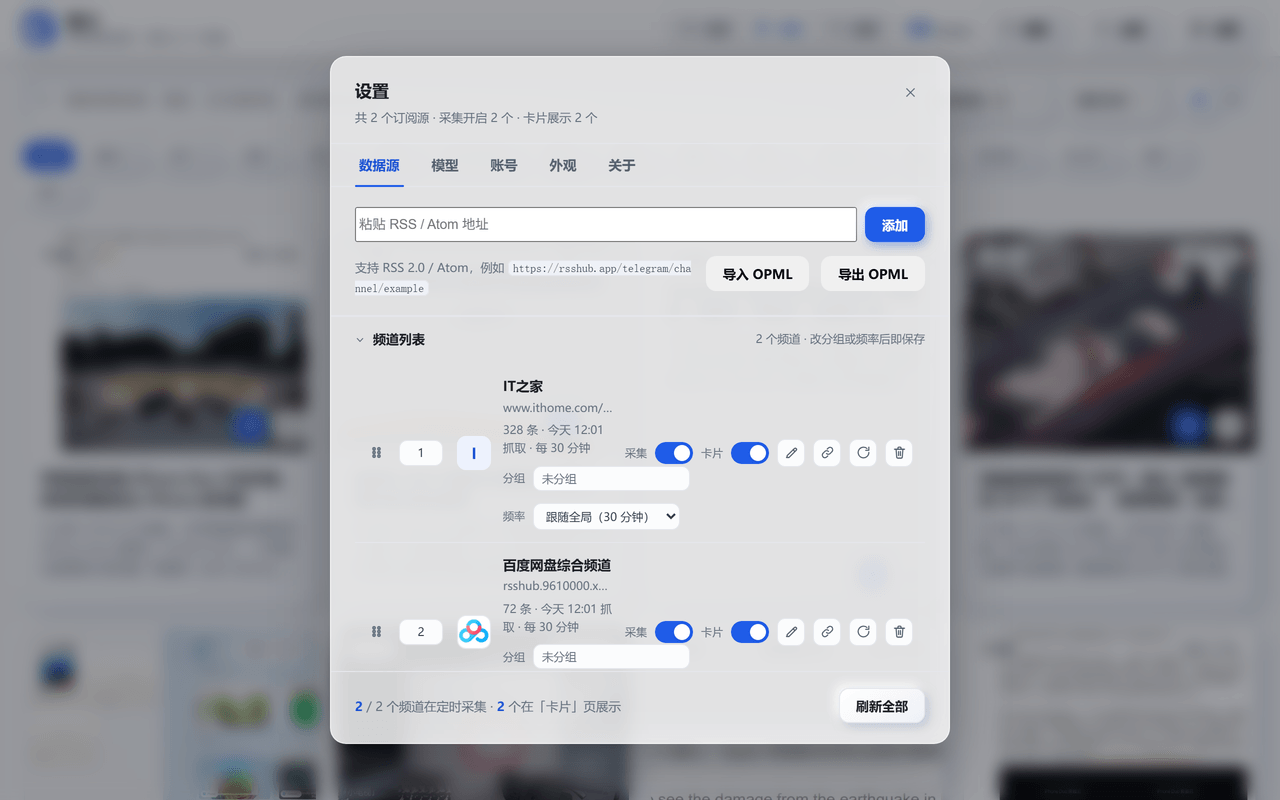
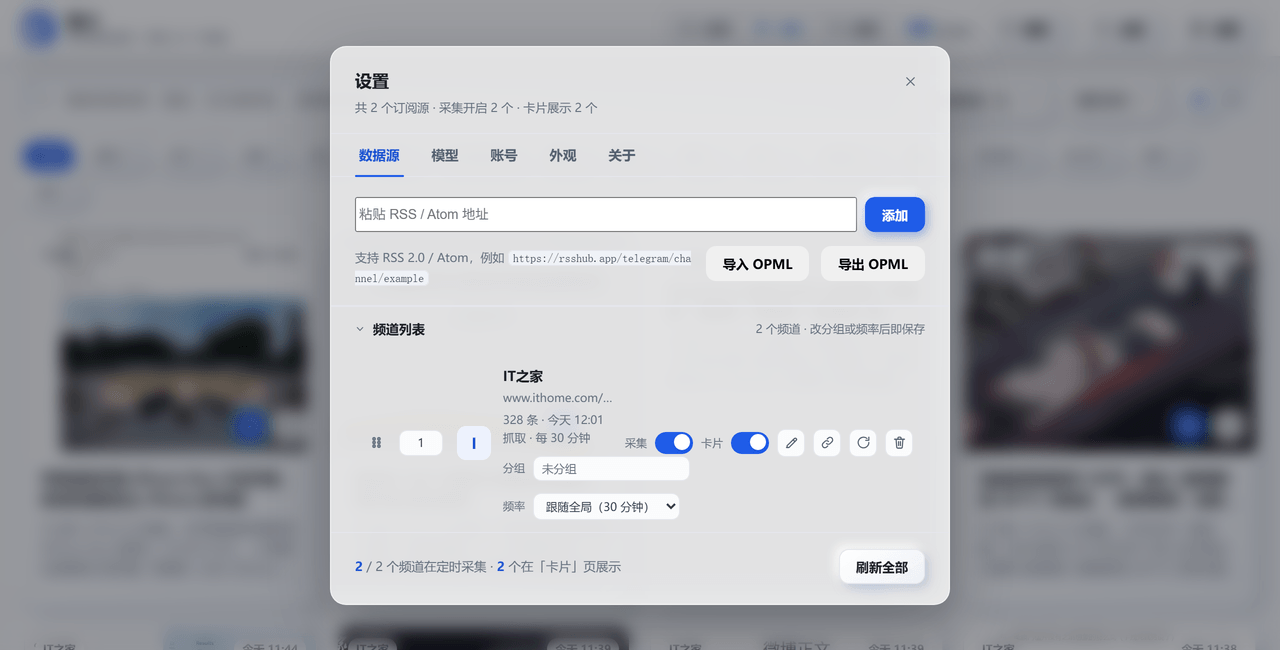
docs: 演示站换成 feedlore.669600.xyz，宣传稿改写成面向普通用户的口径
旧域名的痕迹除文案外还留在 05-settings.png 里（演示库某频道的订阅地址），
重拍时把视口高度当裁剪杠杆，只留第一条频道，主题用真按钮切到浅色再还原。

diff --git a/docs/论坛发布稿.md b/docs/论坛发布稿.md
@@ -1,94 +1,87 @@
 <!-- 发布前自检：① 确认 docs/screenshots 里的图已推到 main 分支，外链才会生效；
      ② 论坛若屏蔽 raw.githubusercontent.com，把前缀换成 https://github.com/chensnails/FeedLore/raw/main/ 再试；
-     ③ 本文件是给论坛直接粘贴用的，README 是仓库门面，两处的功能描述允许有详略差，但别写反。 -->
+     ③ 本文件面向普通用户，讲「能用来干什么、怎么上手」；技术实现细节留在 README，两边别写反。 -->
 
-# 笺川 FeedLore：一个把「订阅 → 阅读 → 沉淀」收在一处的自托管 RSS 阅读器
+# 笺川 FeedLore：自己架一个干净的 RSS 阅读器，追更和囤资源都能放一处
 
-**一条 compose 命令起好，装完不用再管更新。**
+**不用注册、没有广告和追踪，读过的东西都存在你自己的服务器上。**
 
-- 在线演示：**https://read.9610000.xyz** （账户 `demo` / 密码 `demo`，功能全部可点）
-- 源码：**https://github.com/chensnails/FeedLore** （MIT）
-- 形态：单容器 + PostgreSQL，无广告、无遥测、页面零第三方请求
+- 先点着玩：**https://feedlore.669600.xyz** （账户 `demo` / 密码 `demo`，所有功能都能试）
+- 源码在这：**https://github.com/chensnails/FeedLore** （MIT，随便用）
+- 装法：一条命令起一个容器，装完升级也不用管
 
 ![文章阅读页](https://raw.githubusercontent.com/chensnails/FeedLore/main/docs/screenshots/02-reader.png)
 
-## 为什么又写一个 RSS 阅读器
+## 为什么又做一个
 
-我自己订阅里有一大半是「资源向」的内容：剧集、软件、网盘分享、带提取码的长帖。这类东西在传统的阅读器里被压成一行标题，看图要跳回源站，跳回去还得翻评论区。所以我把它拆成两个视图：
+我自己的订阅里有一大半是「资源向」的：剧集、软件、网盘分享、带提取码的长帖。这类内容在常规阅读器里被压成一行标题，想看图得跳回源站，跳回去还得翻半天评论区。所以它做成了两个页面：
 
-- **文章页**是常规阅读器：左边频道（按分组），右边列表，点标题就地展开全文，图片按原文顺序内联。
-- **卡片墙**是资源视图：网格 / 列表卡片，带封面、标签、大小，点卡片直接弹详情读全文，收藏留在这一层。
+- **文章页**就是你熟悉的那种阅读器：左边频道（可以分组），右边列表，点标题直接在原地展开全文，图片按原文顺序排好，不用跳走。
+- **卡片墙**是给你囤的东西用的：网格或列表卡片，有封面、标签、大小，点卡片直接弹出来看全文，收藏留在这一层。
 
-两个视图互相指路 —— 在卡片详情里点「在文章页查看」，会切到文章页、滚到那一条、让它闪一下描边，不用自己在几百条里翻。
+两个页面互相认识。在卡片里点「在文章页查看」，它会切过去、滚到那一条、让它闪一下描边——不用自己在几百条里翻。
 
 ![卡片墙](https://raw.githubusercontent.com/chensnails/FeedLore/main/docs/screenshots/03-cards.png)
 
-## 你会用到的功能
+## 你大概会用到这些
 
-| 方面 | 具体做法 |
+| 想干什么 | 怎么弄 |
 | --- | --- |
-| 阅读 | 就地展开全文、已读 / 未读 / 收藏、服务端检索（标题 / 摘要 / 正文 / 标签）、自动刷新、快捷键面板 |
-| 订阅 | RSS / Atom 粘贴添加、OPML 导入导出（含分组、自动去重）、频道重命名、**订阅地址可改**、分组重命名与拖拽排序、单频道抓取频率 |
-| 抓取 | ETag / Last-Modified 省流量、按条数与天数清理旧条目、**连续失败的频道自动停用并提示**（不会一直报错刷屏） |
-| 过滤 | 每个账号一套规则：关键词或正则，选「只收」或「屏蔽」，可只匹配标题 / 摘要 / 正文，在写库**之前**逐人生效 |
-| 图片 | 外链图统一经自家 `/api/img` 代理，源站防盗链也不裂图；浏览器不会向源站直连 |
-| 外观 | 4 套主题（跟随系统 / 浅色 / CommaFeed 暗色 / GitHub 暗黑）× 6 套主色，字号 / 字体 / 行高 / 阅读宽度即时生效 |
-| 多用户 | 管理员建号，无开放注册；每人独立订阅源、已读、收藏、过滤规则与模型 Key；同一 URL 各存一份互不干扰 |
-| 手机端 | 窄屏弹层一律整屏推入、可下拉手势关闭；HTTPS 下「添加到主屏幕」装成 App |
-| 更新 | 「设置 → 关于」查新版本 + 一键更新；配 Watchtower 则推 tag 自动滚动升级 |
+| 日常追更 | 点标题就地读全文；已读 / 未读 / 收藏分开记；顶部搜索能搜标题、摘要和正文；可以开着让它自己刷新 |
+| 加订阅 | 粘贴 RSS 地址，或者一次性导入 OPML（带分组，重复的自动去掉）。频道名字能改、订阅地址能改、分组能重命名也能拖着排序 |
+| 少看点噪音 | 每个账号自己一套过滤规则：写关键词或者正则，选「只要这些」或「屏蔽这些」，可以只针对标题或正文 |
+| 图片别裂 | 源站防盗链是常事，这里的图统一从你自己的服务器转一道，不会出现满屏裂图 |
+| 换外观 | 4 套主题（跟随系统 / 浅色 / 暗色 / GitHub 暗黑）配 6 种主色，字号、字体、行高、正文宽度都能调，点一下就生效 |
+| 家里几个人一起用 | 管理员建账号，没有公开注册。每个人的订阅、已读、收藏、过滤规则都是分开的，互不干扰 |
+| 手机上用 | 窄屏下弹窗是整屏推进来的，往下拉就能关掉；用 HTTPS 访问时「添加到主屏幕」，跟 App 一样打开 |
+| 定时整理 | 想要的话，在「设置 → 模型」填你自己的大模型 Key，就能把过去 24 小时的新内容整理成一份中文简报。不填也不影响任何别的功能 |
 
 ![卡片详情弹窗](https://raw.githubusercontent.com/chensnails/FeedLore/main/docs/screenshots/04-card-detail.png)
 
-可选的 **AI 日报**：想用的话在「设置 → 模型」填自己的大模型 Key，就能按账号把过去 24 小时的新条目整理成中文简报。不配 Key 不影响任何其它功能，也没有任何默认调用的第三方服务。
+有几个省心的小地方：抓取一直失败的频道会自己停掉并告诉你原因，不会天天弹错；旧内容可以按条数或天数自动清理；某个源挂了图片也不会连累你的页面。
 
-## 部署
+## 装一份要多久
 
-需要 Docker（含 Compose）。镜像模式同时出 `amd64` / `arm64`，树莓派和 ARM 云主机都能跑。
+前提是有 Docker。把下面这段直接粘进终端，大概一分钟：
 
 ```bash
 git clone https://github.com/chensnails/FeedLore.git
 cd FeedLore
 cp .env.example .env
 
-# ⚠ 一定要换掉默认密码
+# ⚠ 这两行是给数据库和更新通道生成随机密码，务必执行，别用默认的弱口令
 sed -i "s#^PG_PASSWORD=.*#PG_PASSWORD=$(tr -dc 'A-Za-z0-9' < /dev/urandom | head -c 32)#" .env
 sed -i "s|^WATCHTOWER_HTTP_API_TOKEN=.*|WATCHTOWER_HTTP_API_TOKEN=$(openssl rand -hex 32)|" .env
 
 docker compose -f docker-compose.release.yml up -d
 ```
 
-打开 `http://<主机>:3210`，首次启动的默认账号是 `admin / admin`，登录后到「设置 → 账号」改掉。之后「设置 → 数据源」粘 RSS 地址或导入 OPML 就能开始读。
+然后浏览器打开 `http://<你的服务器IP>:3210`，第一次的账号密码是 `admin / admin`，登录后马上去「设置 → 账号」改掉。接着到「设置 → 数据源」粘贴几个 RSS 地址，或者导入你的 OPML，就能开始读了。
 
-想改代码就走源码模式（`docker compose up -d --build`）；两种模式的容器名 / 数据卷 / 网络完全一致，随时互切、数据零迁移。
+以后升级也不用你动手：作者发新版，你这边会自动跟着更新；不想等的话，「设置 → 关于 → 检查更新」里有个「一键更新」。
 
-## 技术上没什么惊喜
+## 说清楚它的边界
 
-后端 Node 22 原生 `http`，不引框架；数据层 `pg` 直连，没有 ORM；前端 Vite + React 19，视图与内核之间是一个 `core` 单例桥，共享状态驱动重绘。整个应用一个镜像、一个进程、一个数据库。
-
-测试是这套代码敢自动更新的原因：`npm test` 跑 260 多项 UI 回归（jsdom 里真点按钮、真发事件，含手势与弹层形态的静态守卫）+ 77 项服务端单测（加密、过滤、分页、权限），再加部署守卫（Dockerfile 文件清单、compose 契约）。
-
-## 已知边界（免得你踩了来提 Issue）
-
-- **不开放注册**：定位就是个人 / 小圈子，账号由管理员建。
-- **没有原生 App**：手机端是 PWA，Service Worker 只缓存外壳，`/api` 一律网络优先，所以离线能打开界面但读不到新内容。
-- **AI 日报要自备 Key**：站点默认可以不开，开了也只按账号用你自己的 Key。
-- **演示库会重置**：`demo` 账户是共享的，别把重要订阅放进去。
-- **备份只有一条路**：数据全在 PostgreSQL 数据卷里，自己定期备份（生产环境请务必先确认这条已经做了）。
+- **不开放注册**：定位是个人和小圈子用，账号由管理员建。
+- **没有应用商店里的 App**：手机端走网页装到主屏幕，离线时能打开界面，但读不到新内容。
+- **AI 简报要自备 Key**：不填 Key 就没有任何第三方调用，其它功能照常。
+- **演示站是共享的**：`demo` 账户大家共用，数据会变动也会重置，别把重要订阅放进去。
+- **备份要自己安排**：所有数据都在那一个数据库卷里，定期备份一下（这句不是客套）。
 
 ## 手机上的样子
 
-| 卡片墙 | 整屏详情（可下拉关闭） |
+| 卡片墙 | 整屏详情（往下拉关闭） |
 | --- | --- |
 | ![手机端卡片墙](https://raw.githubusercontent.com/chensnails/FeedLore/main/docs/screenshots/09-mobile-cards.png) | ![手机端整屏详情](https://raw.githubusercontent.com/chensnails/FeedLore/main/docs/screenshots/10-mobile-detail.png) |
 
-暗色主题（CommaFeed 暗）：
+暗色主题：
 
 ![暗色卡片墙](https://raw.githubusercontent.com/chensnails/FeedLore/main/docs/screenshots/07-cards-dark.png)
 
 ## 最后
 
-用得上就去点一下演示地址，觉得哪里别扭欢迎开 Issue 或直接说 —— 交互层面的反馈我改得最快，最近这一串小版本几乎都来自一句「这里不对」。
+先用演示地址点两下，觉得哪里别扭欢迎开 Issue 或者直接在帖子里说——界面层面的反馈我改得最快，最近这一串小版本几乎都来自一句「这里不对」。
 
+- 演示：https://feedlore.669600.xyz （`demo` / `demo`）
 - 仓库：https://github.com/chensnails/FeedLore
 - 更新记录：https://github.com/chensnails/FeedLore/releases
-- 演示：https://read.9610000.xyz （`demo` / `demo`）

diff --git a/README.md b/README.md
@@ -4,7 +4,7 @@
 
 ## 在线体验
 
-**https://read.9610000.xyz** · 账户 `demo` / 密码 `demo`
+**https://feedlore.669600.xyz** · 账户 `demo` / 密码 `demo`
 
 演示账户是普通用户角色，功能全部可点；订阅源与已读状态会随真实使用变动，也可能随时重置。想试多用户隔离，就自己部署一份。
 
